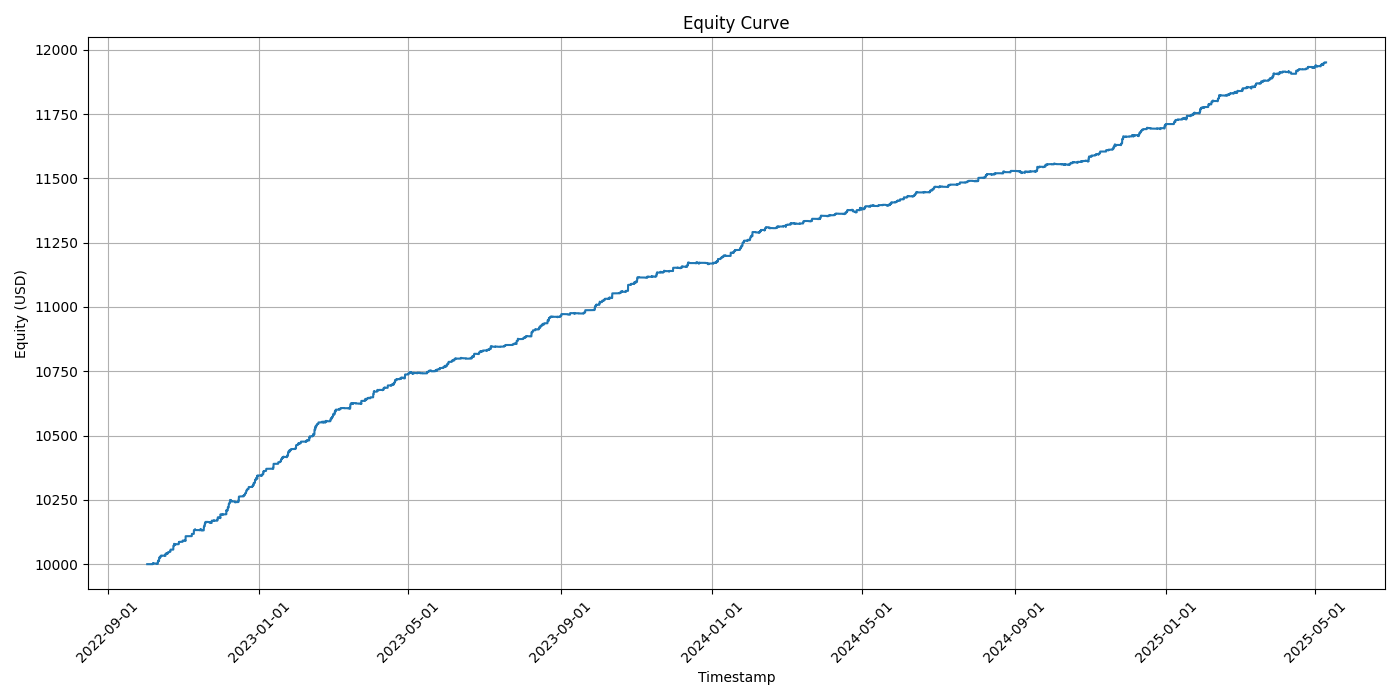
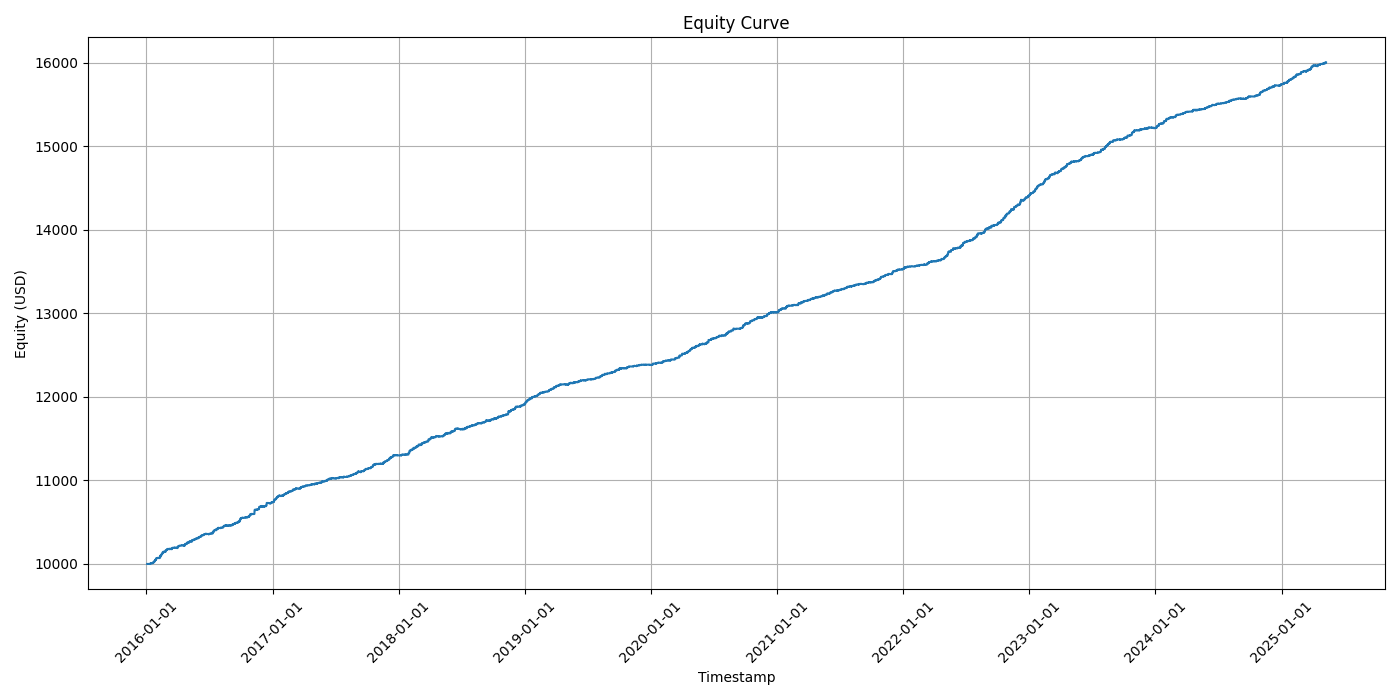
Update README and performance report with revised backtest period and results; enhance clarity on model training and evaluation.

diff --git a/README.md b/README.md
@@ -6,9 +6,11 @@ ML-TA is a modular, Python-based trading bot designed for MetaTrader 5 (MT5). It
 
 ---
 
-## Sample Backtest Performance (2022–2025)
+## Sample Backtest Performance (2016–2025)
 
-Performance below is based on EURUSD/GBPUSD from October 2022 to May 2025 using the full ML-TA pipeline:
+Performance below is based on EURUSD/GBPUSD from January 2016 to May 2025 using the full ML-TA pipeline.
+
+> **Note:** The model used for this backtest was trained only on data from 2022 to 2025, then evaluated on the entire 2016–2025 period. This approach demonstrates the model's ability to generalize and reduces the risk of overfitting, as it was not exposed to earlier data during training. Notably, the strategy survived the 2020 COVID market crash, highlighting its robustness in highly volatile conditions.
 
 ### Equity Curve
 
@@ -16,24 +18,26 @@ Performance below is based on EURUSD/GBPUSD from October 2022 to May 2025 using 
 
 ### Performance Report
 
+> **Backtest settings:** All results below use a fixed 0.01 lot size per trade (no dynamic risk or position sizing).
+
 ```
 Backtest Performance Report (Pre-computed Features Mode)
 ============================================================
 Initial Capital: $10,000.00
-Final Equity: $11,950.83
-Net Profit/Loss: $1,950.83
-Net Profit/Loss (%): 19.51%
-Total Closed Trades: 2321
-Winning Trades: 1389
-Losing Trades: 932
-Win Rate (%): 59.84
-Average Win ($): 1.92
-Average Loss ($): -0.77
-Total Gross Profit ($): 2,667.66
-Total Gross Loss ($): -716.83
-Profit Factor: 3.72
-Max Drawdown (%): 0.09%
-Max Drawdown ($): $10.71
+Final Equity: $16,000.25
+Net Profit/Loss: $6,000.25
+Net Profit/Loss (%): 60.00%
+Total Closed Trades: 8401
+Winning Trades: 4700
+Losing Trades: 3701
+Win Rate (%): 55.95
+Average Win ($): 1.90
+Average Loss ($): -0.79
+Total Gross Profit ($): 8,922.28
+Total Gross Loss ($): -2,922.03
+Profit Factor: 3.05
+Max Drawdown (%): 0.11%
+Max Drawdown ($): $13.68
 ```
 
 ---
